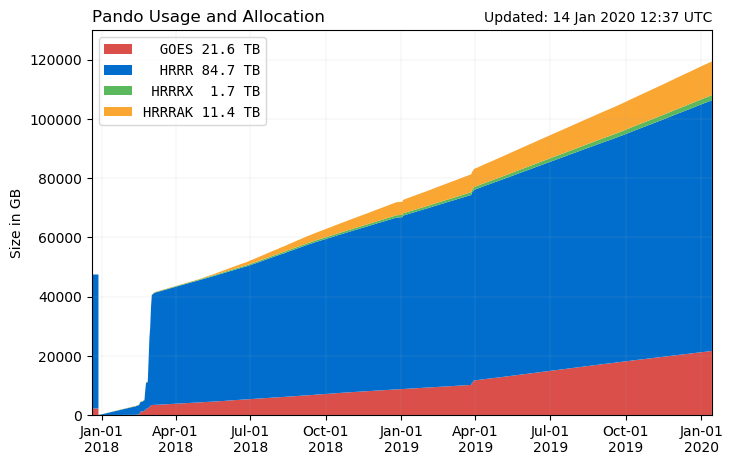
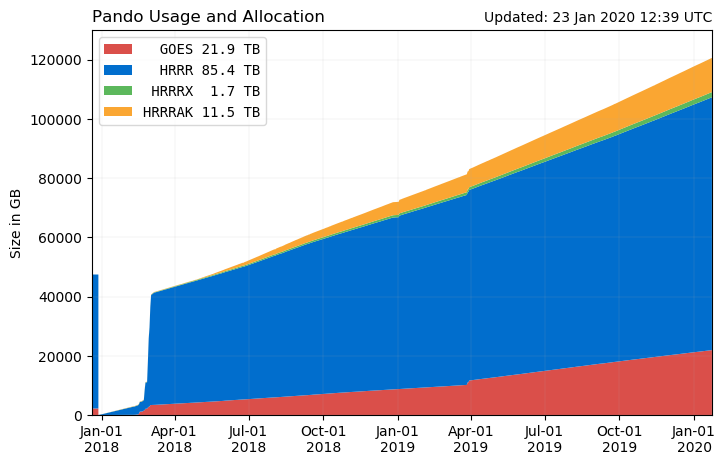
updates

diff --git a/home.html b/home.html
@@ -48,7 +48,6 @@
     <h2 class="homeImageLink">
     <span>Brian K. Blaylock</span>
     </h2>
-
 </div>
 
 
@@ -57,7 +56,7 @@
 <div style='max-width: 900px;margin:auto;'>
 <p class="home">
 I'm from Spanish Fork, Utah and recently finished a Ph.D. in atmospheric science
-at the University of Utah. My advisor is <a href="http://home.chpc.utah.edu/~u0035056/home/">Dr. John Horel</a>.
+at the University of Utah. My advisor was <a href="http://home.chpc.utah.edu/~u0035056/home/">Dr. John Horel</a>.
 
 I joined the <a href='http://home.chpc.utah.edu/~whiteman/mmg/' target="page">Mountain Meteorology Research Group</a>
 and <a href='http://meso1.chpc.utah.edu/mesowest_overview/' target='page'>MesoWest</a> team in November 2012.
@@ -66,7 +65,7 @@ and <a href='http://meso1.chpc.utah.edu/mesowest_overview/' target='page'>MesoWe
 
 <p style='text-align: center;'><img src='./images/NRL.png' width=200>
 <p class='home'>
-    I was awarded a National Academies Research Associateship and will begin 
+    I was awarded a National Academies Research Associateship and began 
     working at the <a href='https://www.nrlmry.navy.mil/'>Naval Research Laboratory Marine Meteorology Division</a>
     in <b>Fall 2019</b>.
 
@@ -87,7 +86,10 @@ and <a href='http://meso1.chpc.utah.edu/mesowest_overview/' target='page'>MesoWe
             </div>
             <div class="media-body">
                 <b>Communication</b><br>
-                <h4>Speaking, writing, teaching, public outreach, documentation, Slack, type 80+ words per minute</h4>
+                <h4>Speaking, writing, teaching, public outreach,
+                   documentation, Atlassian Confluence, GitHub, 
+                   Bitbucket, StackOverflow,
+                   Slack, type 80+ words per minute</h4>
             </div>
         </div>
 
@@ -99,9 +101,10 @@ and <a href='http://meso1.chpc.utah.edu/mesowest_overview/' target='page'>MesoWe
             <b>Python</b><br>
             <h4>Started a Python User Group for our department and taught the Environmental Programming course.
                 Skilled in Python 2.7 and Python 3,
-                numpy, matplotlib, Basemap, scipy, datetime, multiprocessing,
-                pyproj, pygrib, xarray, metpy,
-                Jupyter Notebook/Lab, Anaconda, publication-quality figures.
+                numpy, matplotlib, Pandas, xarray, cartopy, Basemap, scipy,
+                datetime, multiprocessing, cylc, Dask, metpy,
+                pyproj, pygrib, Jupyter Lab, Anaconda, conda, 
+                publication-quality figures.
                 
                 View code on <a href='https://github.com/blaylockbk'>GitHub</a>.
             </h4>
@@ -115,7 +118,8 @@ and <a href='http://meso1.chpc.utah.edu/mesowest_overview/' target='page'>MesoWe
               <div class="media-body">
                 <b>Linux</b><br>
                 <h4>High Performance Computing, High Throughput Computing, 
-                    modules, shell scripting, cron, slurm, git, Docker</h4>
+                    modules, shell scripting, cron, cylc, PBS, slurm,
+                    git, Docker</h4>
               </div>
         </div>
         <div class="media">
@@ -143,14 +147,16 @@ and <a href='http://meso1.chpc.utah.edu/mesowest_overview/' target='page'>MesoWe
                 <img src="./images/skills/WRF.png" class="media-object" style="width:60px">
               </div>
               <div class="media-body">
-                <b>Weather Research and Forecast Model</b><br>
+                <b>Numerical Weather Prediction</b><br>
                 <h4>
-                    Basic WRF Tutorial certificate,
+                    <b>Weather Research and Forecast (WRF) model</b>. Basic WRF Tutorial certificate,
                     <a href="http://home.chpc.utah.edu/~u0553130/Brian_Blaylock/hrrr.html">initialize WRF with HRRR boundary conditions</a>,
                     lake breeze,
                     <a href="http://home.chpc.utah.edu/~u0553130/Brian_Blaylock/tracer.html">tracers</a>,
                     <a href="http://home.chpc.utah.edu/~u0553130/Brian_Blaylock/lake_surgery.html">land surface modifications</a>,
                     <a href="http://home.chpc.utah.edu/~u0553130/Ute_WRF/">UofU WRF User Group</a></h4>
+                <h4><b>Coupled Ocean/Atmosphere Mesoscale Prediction System (COAMPS) model</b>.
+                    Observation impact experiments. Model Evaluation Tools. Data assimilation.</h4>
               </div>
         </div>
         <div class="media">

diff --git a/Pando_archive/index.html b/Pando_archive/index.html
@@ -46,12 +46,12 @@
 
 <br>
   <script src='./js/pando_status.js'></script>
-    <center><font size=12> 119.4 TB out of 130 TB</font>
+    <center><font size=12> 120.6 TB out of 130 TB</font>
     <div class="progress" style="max-width:700px;height:35px">
             <div class="progress-bar progress-bar-danger" role="progressbar" style="width:17%">
               <font size=4></font>
             </div>
-            <div class="progress-bar progress-bar-primary" role="progressbar" style="width:65%">
+            <div class="progress-bar progress-bar-primary" role="progressbar" style="width:66%">
               <font size=4></font>
             </div>
             <div class="progress-bar progress-bar-success" role="progressbar" style="width:1%">
@@ -73,9 +73,9 @@
         <th style='text-align:center'>Estimated Full Date</th>
       </tr>
       <tr>
-        <td>131.78 GB</td>
-        <td>80</td>
-        <td>03 April 2020</td>
+        <td>122.02 GB</td>
+        <td>77</td>
+        <td>09 April 2020</td>
       </tr>
     </table>
     <table class="table table-bordered" style='text-align:center;max-width:700px'>
@@ -86,18 +86,18 @@
       </tr>
       <tr>
         <th style='text-align:right'>ABI-L2-MCMIPC</th>
-        <td>15.05</td>
-        <td>16.12</td>
+        <td>10.90</td>
+        <td>10.88</td>
       </tr>
       <tr>
         <th style='text-align:right'>GLM-L2-LCFA</th>
-        <td>1.54</td>
-        <td>0.79</td>
+        <td>1.23</td>
+        <td>0.54</td>
       </tr>
       <tr>
         <th style='text-align:right'>Total</th>
-        <th style='text-align:center'>16.59 GB</th>
-        <th style='text-align:center'>16.91 GB</th>
+        <th style='text-align:center'>12.13 GB</th>
+        <th style='text-align:center'>11.42 GB</th>
       </tr>
     </table>
 
@@ -111,13 +111,13 @@
       </tr>
       <tr>
         <th style='text-align:right'>sfc</th>
-        <td>68.55</td>
-        <td>3.53</td>
-        <td>17.37</td>
+        <td>69.42</td>
+        <td>2.30</td>
+        <td>17.65</td>
       </tr>
       <tr>
         <th style='text-align:right'>prs</th>
-        <td>8.84</td>
+        <td>9.10</td>
         <td>0.00</td>
         <td>0.00</td>
       </tr>
@@ -129,9 +129,9 @@
       </tr>
       <tr>
         <th style='text-align:right'>Total</th>
-        <th style='text-align:center'>77.38 GB</th>
-        <th style='text-align:center'>3.53 GB</th>
-        <th style='text-align:center'>17.37 GB</th>
+        <th style='text-align:center'>78.52 GB</th>
+        <th style='text-align:center'>2.30 GB</th>
+        <th style='text-align:center'>17.65 GB</th>
       </tr>
     </table>
 
@@ -142,7 +142,7 @@
     <a href="https://github.com/blaylockbk/Web-Homepage/blob/master/Pando_archive/index.html"><i class="fab fa-github"></i> Page</a>
     <a href="https://github.com/blaylockbk/Web-Homepage/blob/master/Pando_archive/daily_usage.py"><i class="fab fa-github"></i> Plot</a>
     <br>
-    Last Updated: 14 Jan 2020 12:37 UTC
+    Last Updated: 23 Jan 2020 12:39 UTC
   </div>
 
 </div>
